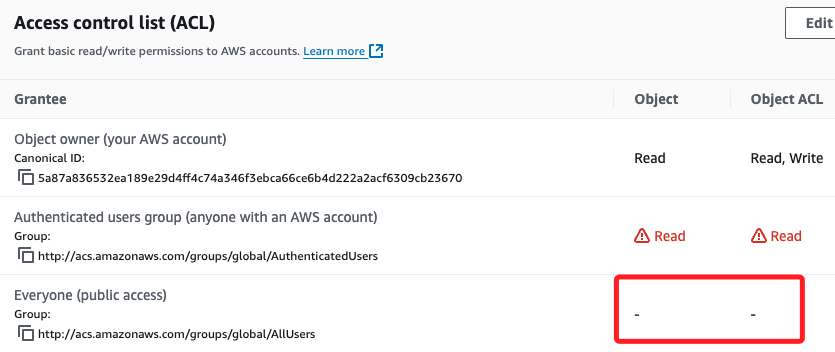
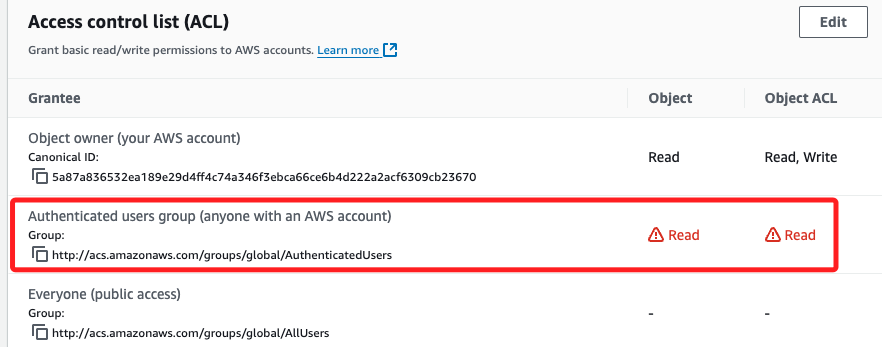
Commit on 2024-10-25 11:21:07

diff --git a/01_課程筆記/1024_B06/02_S3.md b/01_課程筆記/1024_B06/02_S3.md
@@ -384,41 +384,45 @@ _當前路徑中準備一張圖片 `monkey.jpeg`_
 
 8. 再次刷新頁面查看。
 
-    <img src="images/img_20.png" width="400px">
+    <img src="images/img_20.png" width="550px">
 
 <br>
 
-## 設定 `Everyone (public access)`
+## 允許 `anyone with an AWS account`
 
-1. 在設定時發生阻礙，開啟不了。
-
-    <img src="images/img_22.png" width="400px">
+_`Authenticated users group (anyone with an AWS account)`_
 
 <br>
 
-2. 檢查 Bucket Policy。
+1. 要開啟這個 `ACL`，可在 `put-object-acl` 指令中使用對應的 `AuthenticatedUsers` 群組 `URI`。
 
     ```bash
-    aws s3api get-bucket-policy --bucket $Bucket_name
+    aws s3api put-object-acl --bucket $Bucket_name --key monkey.jpeg \
+    --grant-full-control "id=$Canonical_ID" \
+    --grant-read 'uri="http://acs.amazonaws.com/groups/global/AllUsers"' \
+    --grant-read-acp 'uri="http://acs.amazonaws.com/groups/global/AllUsers"' \
+    --grant-read 'uri="http://acs.amazonaws.com/groups/global/AuthenticatedUsers"' \
+    --grant-read-acp 'uri="http://acs.amazonaws.com/groups/global/AuthenticatedUsers"'
+    ```
+
+2. 設定完成，但是順序會做調整，並且原本的 `Everyone (public access)` 會成為無設定狀態。
+
+    ![](images/img_22.png)
+
+<br>
+
+3. 重新授予 `Everyone (public access)` 對於指定物件的讀取權限。
+
+    ```bash
+    aws s3api put-object-acl --bucket $Bucket_name --key $Image_path \
+    --grant-read 'uri="http://acs.amazonaws.com/groups/global/AllUsers"'
     ```
 
 <br>
 
-3. 再次修正 Policy。
+4. 訪問圖片 URL，可嘗試開啟無痕視窗訪問，同樣可以看到圖片。 
 
-    ```bash
-    aws s3api put-bucket-policy --bucket $Bucket_name --policy '{
-        "Version": "2012-10-17",
-        "Statement": [
-            {
-                "Effect": "Allow",
-                "Principal": "*",
-                "Action": "s3:GetObject",
-                "Resource": "arn:aws:s3:::'$Bucket_name'/*"
-            }
-        ]
-    }'
-    ```
+    ![](images/img_28.png)
 
 <br>
 
